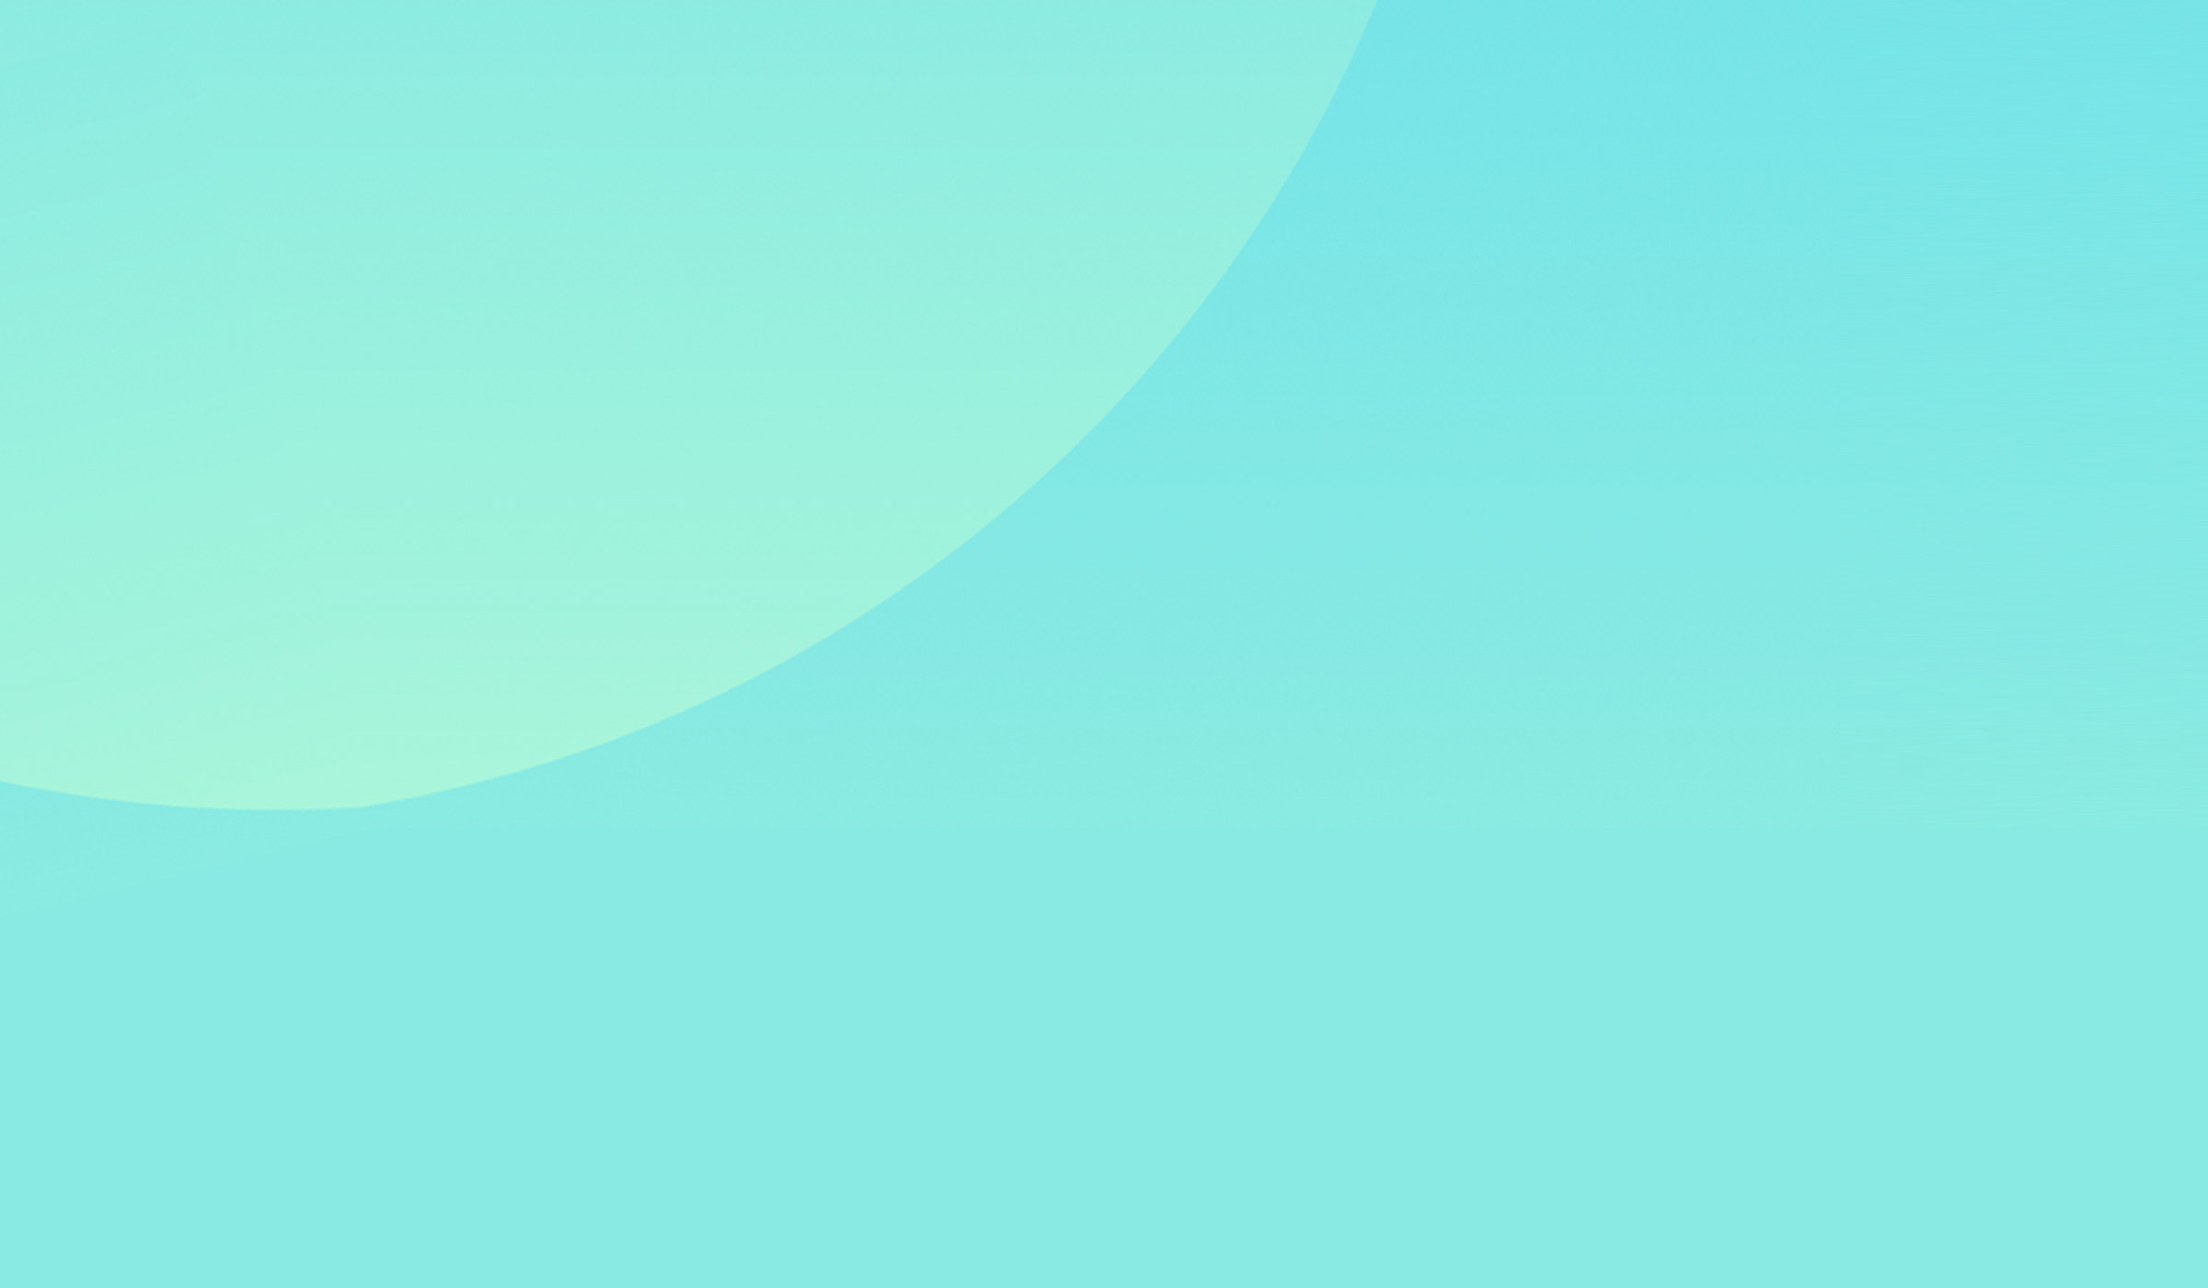
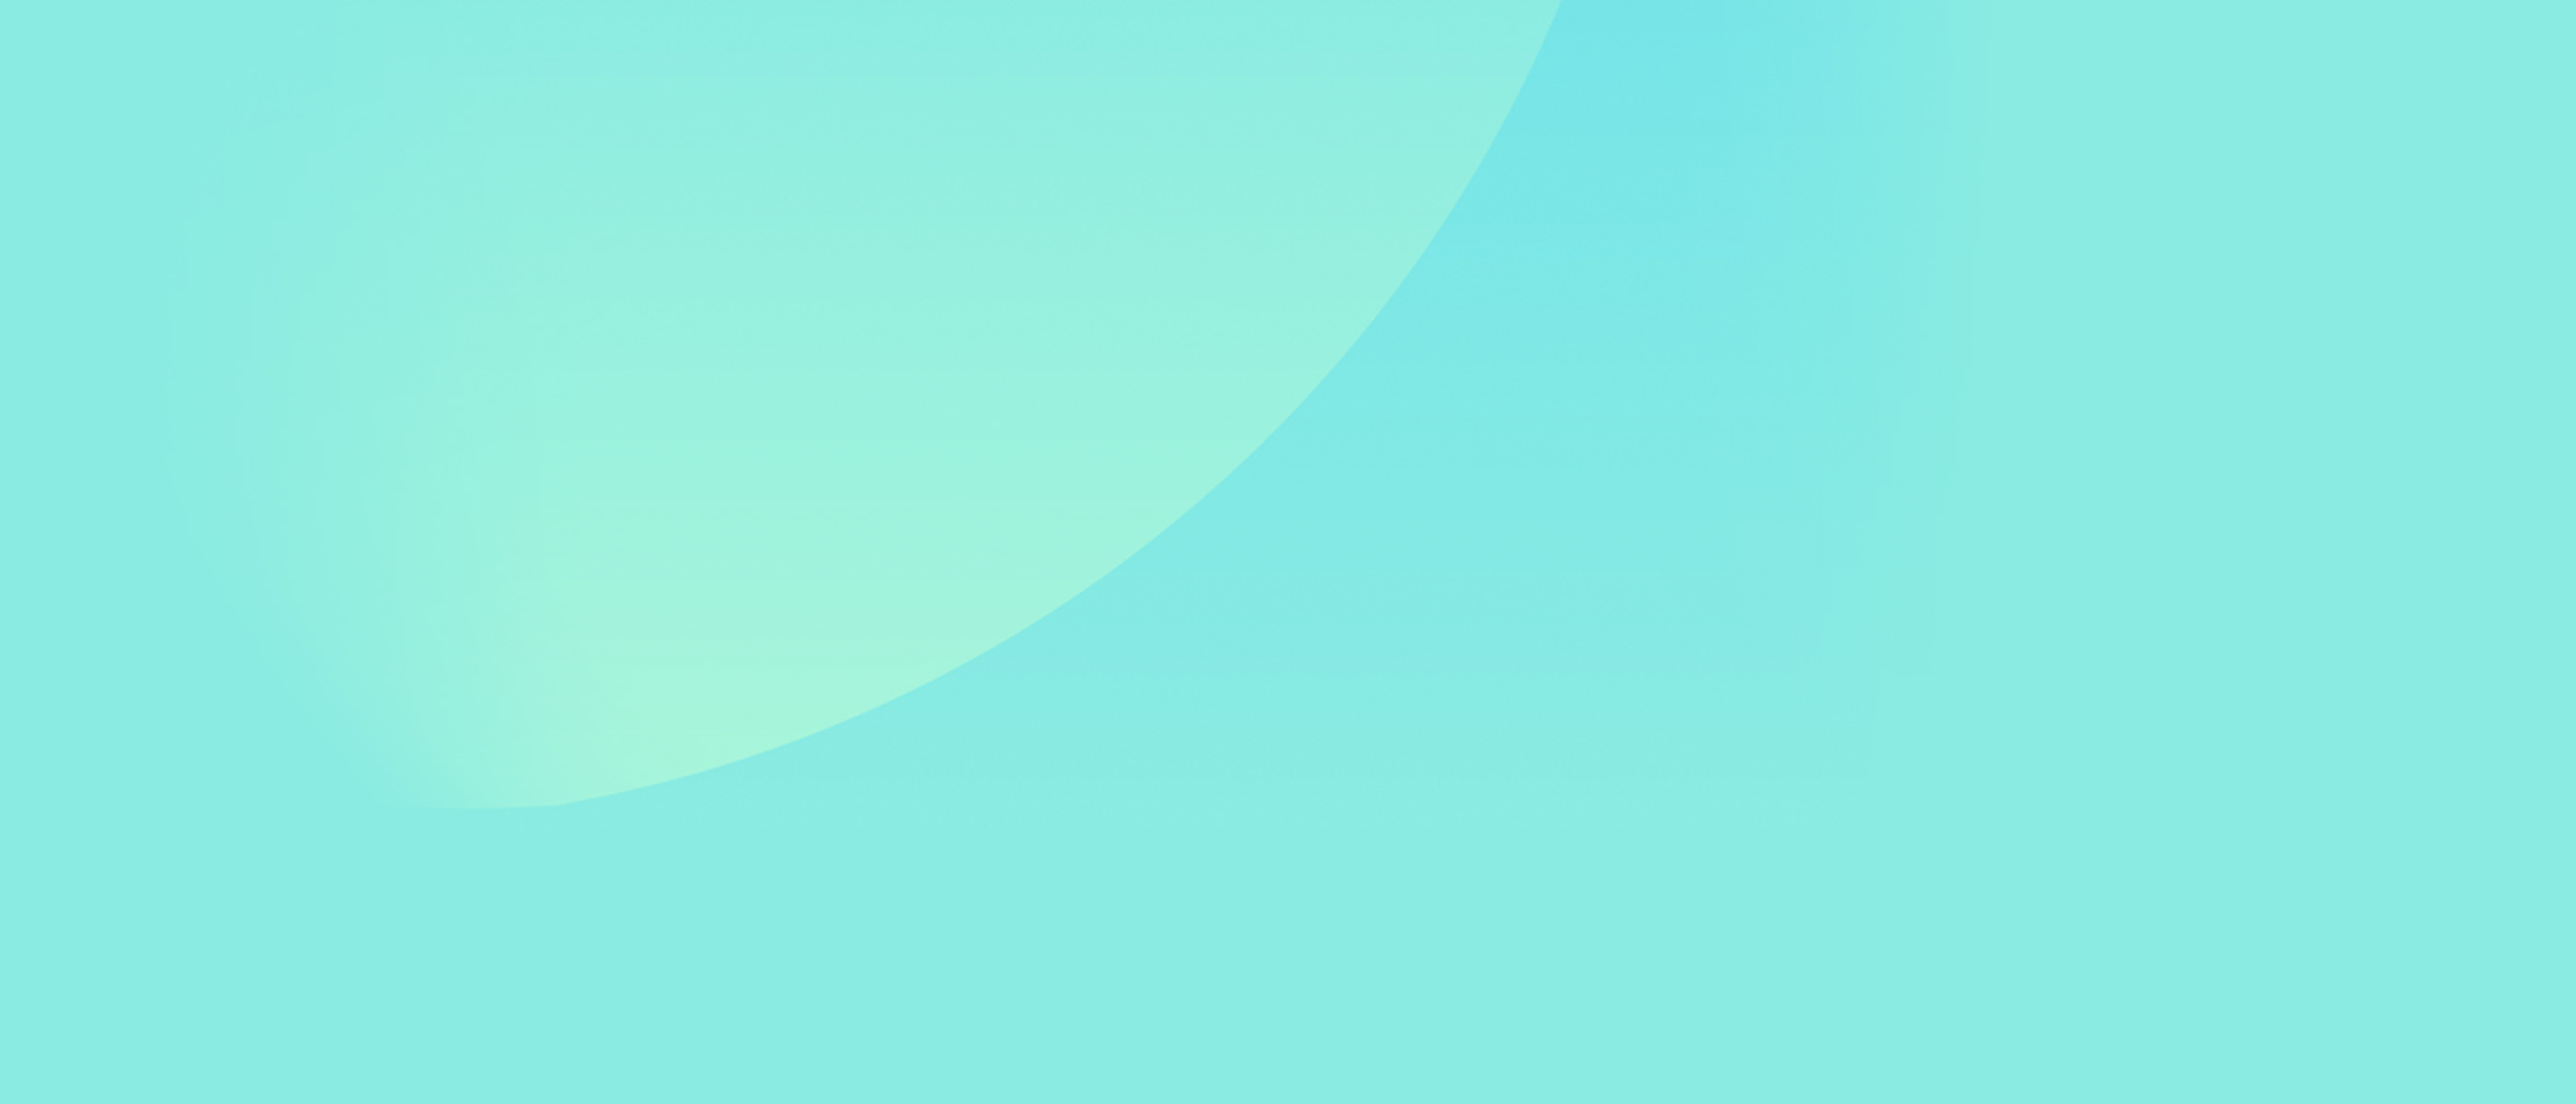
Make background scale better on large screens

diff --git a/media/css/firefox/whatsnew/whatsnew-lite-in.scss b/media/css/firefox/whatsnew/whatsnew-lite-in.scss
@@ -64,29 +64,59 @@
 // Page content
 
 .lite-body {
-    background-color: #ade7e2;
-    background-image: url('/media/img/firefox/whatsnew/lite/background-in.jpg');
+    background-color: #8aebe2;
     background-position: top;
     color: $color-gray-80;
     position: relative;
+    margin-left: auto;
+    margin-right: auto;
+    overflow: hidden;
+    background-image: url('/media/img/firefox/whatsnew/lite/background-in.jpg');
+    background-repeat: no-repeat;
+    background-position: top center;
+    background-size: 150%;
+    &:after {
+        display: none;
+        content: " ";
+        position: absolute;
+        z-index: 0;
+        top: 0;
+        left: 50%;
+        margin-left: -1400px;
+        width: 2800px;
+        height: 100%;
+        max-width: 2800px;
+        background-image: url('/media/img/firefox/whatsnew/lite/photo-in.webp');
+        background-size: 75% auto;
+        background-repeat: no-repeat;
+        background-position: top center;
+
+        @media #{$mq-lg} {
+            display: block;
+        }
+
+        @media #{$mq-xl} {
+            display: block;
+            background-size: 100% auto;
+        }
+    }
+
 }
 
 .lite-content {
     max-width: 1600px;
     padding-left: $spacing-lg;
     padding-right: $spacing-lg;
-    background-repeat: no-repeat;
-    background-position: top right;
-    background-size: 42%;
+    position: relative;
+    z-index: 1;
     @media #{$mq-md} {
-        background-image: url('/media/img/firefox/whatsnew/lite/photo-in.webp');
         padding-bottom: $layout-xl;
     }
 }
 
 .lite-copy {
     @include text-body-md;
-    @media #{$mq-md} {
+    @media #{$mq-lg} {
         width: 58%;
     }
 }
@@ -165,19 +195,13 @@
         z-index: 1;
         display: none;
         background: radial-gradient(100% 100% at 50% 50%, #69e0e3 50%, transparent 50%);
-        height: 380px;
-        width: 380px;
         top: 0;
-        left: -40px;
-
-        @media #{$mq-md} {
-            display: block;
-        }
+        left: -70px;
+        height: 440px;
+        width: 440px;
 
         @media #{$mq-lg} {
-            left: -70px;
-            height: 440px;
-            width: 440px;
+            display: block;
         }
     }
 
